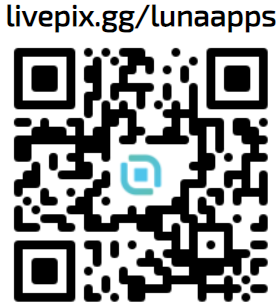
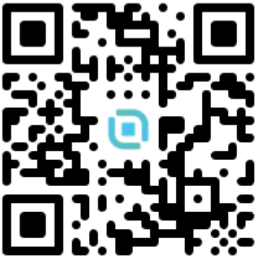
Changed website name

diff --git a/index.html b/index.html
@@ -20,7 +20,7 @@
     <div class="container-fluid">
       <a class="navbar-brand" href="./index.html">
         <img src="assets/images/icon-24px.png" alt="Logo" class="d-inline-block align-text-top">
-        Luna Apps
+        OSINT Search
       </a>
       <button class="navbar-toggler" type="button" data-bs-toggle="collapse" data-bs-target="#navbarNavDropdown" aria-controls="navbarNavDropdown" aria-expanded="false" aria-label="Toggle navigation">
         <span class="navbar-toggler-icon"></span>
@@ -218,7 +218,7 @@
       <div class="container mt-5 text-center">
         <div class="col">
           <p>Se você aprecia nosso trabalho e gostaria de nos apoiar, considere fazer uma doação via PIX.</p>
-          <p>Basta escanear o QR code abaixo com o seu aplicativo de banco ou carteira digital ou acessar este <a href="https://livepix.gg/lunaapps" class="link-primary link-offset-1 link-underline-opacity-50 link-underline-opacity-100-hover">link</a> e inserir o valor que deseja contribuir.</p>
+          <p>Basta escanear o QR code abaixo com o seu aplicativo de banco ou carteira digital ou acessar este <a href="https://livepix.gg/osintsearch" class="link-primary link-offset-1 link-underline-opacity-50 link-underline-opacity-100-hover">link</a> e inserir o valor que deseja contribuir.</p>
           <p>Sua generosidade é fundamental para manter nosso projeto em funcionamento. Agradecemos imensamente o seu apoio!</p>
           <img id="logoFooter" src="assets/images/qrcodePIX.png" alt="Logo">
         </div>
@@ -227,7 +227,7 @@
   </div>
   <div class="container">
     <footer class="d-flex flex-wrap justify-content-between align-items-center py-3 my-4 border-top">
-      <p class="col-md-4 mb-0 text-muted">© <span id="currentYear"></span> Luna Apps</p>
+      <p class="col-md-4 mb-0 text-muted">© <span id="currentYear"></span> OSINT Search</p>
       <a href="#" class="col-md-4 d-flex align-items-center justify-content-center">
         <img id="logoFooter" src="assets/images/icon-24px.png" alt="Logo">
       </a>

diff --git a/about.html b/about.html
@@ -20,7 +20,7 @@
     <div class="container-fluid">
       <a class="navbar-brand" href="./index.html">
         <img src="assets/images/icon-24px.png" alt="Logo" class="d-inline-block align-text-top">
-        Luna Apps
+        OSINT Search
       </a>
       <button class="navbar-toggler" type="button" data-bs-toggle="collapse" data-bs-target="#navbarNavDropdown" aria-controls="navbarNavDropdown" aria-expanded="false" aria-label="Toggle navigation">
         <span class="navbar-toggler-icon"></span>
@@ -70,7 +70,7 @@
   </div>
   <div class="container">
     <footer class="d-flex flex-wrap justify-content-between align-items-center py-3 my-4 border-top">
-      <p class="col-md-4 mb-0 text-muted">© <span id="currentYear"></span> Luna Apps</p>
+      <p class="col-md-4 mb-0 text-muted">© <span id="currentYear"></span> OSINT Search</p>
       <a href="#" class="col-md-4 d-flex align-items-center justify-content-center">
         <img id="logoFooter" src="assets/images/icon-24px.png" alt="Logo">
       </a>

diff --git a/contact.html b/contact.html
@@ -20,7 +20,7 @@
     <div class="container-fluid">
       <a class="navbar-brand" href="./index.html">
         <img src="assets/images/icon-24px.png" alt="Logo" class="d-inline-block align-text-top">
-        Luna Apps
+        OSINT Search
       </a>
       <button class="navbar-toggler" type="button" data-bs-toggle="collapse" data-bs-target="#navbarNavDropdown" aria-controls="navbarNavDropdown" aria-expanded="false" aria-label="Toggle navigation">
         <span class="navbar-toggler-icon"></span>
@@ -76,7 +76,7 @@
   </div>
   <div class="container">
     <footer class="d-flex flex-wrap justify-content-between align-items-center py-3 my-4 border-top">
-      <p class="col-md-4 mb-0 text-muted">© <span id="currentYear"></span> Luna Apps</p>
+      <p class="col-md-4 mb-0 text-muted">© <span id="currentYear"></span> OSINT Search</p>
       <a href="#" class="col-md-4 d-flex align-items-center justify-content-center">
         <img id="logoFooter" src="assets/images/icon-24px.png" alt="Logo">
       </a>
